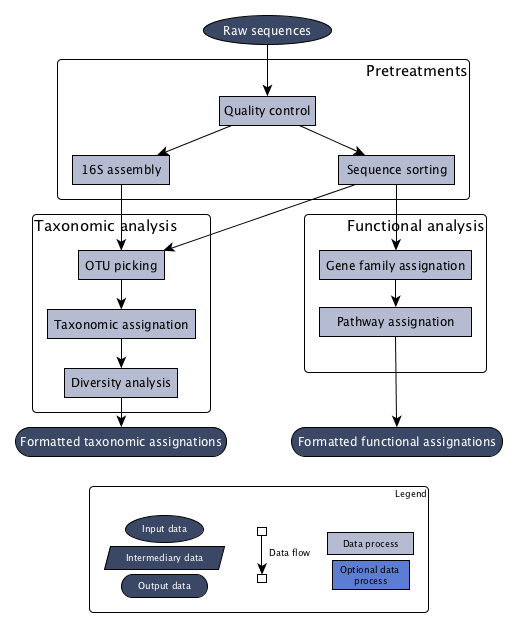
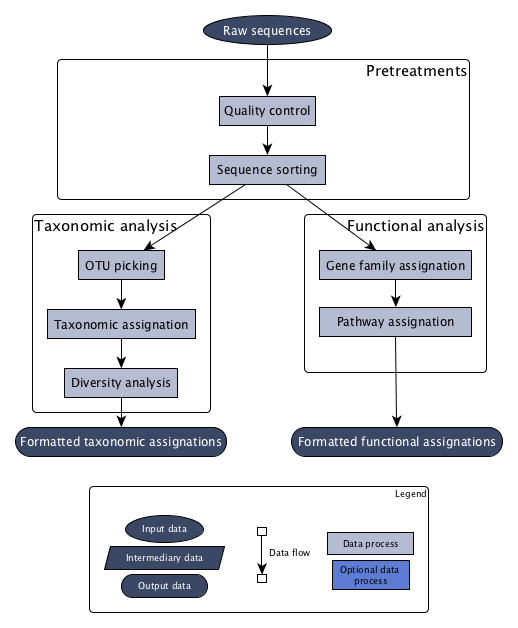
Continue workflow documentation

diff --git a/framework/workflows/microbiota_data_pretreatments.rst b/framework/workflows/microbiota_data_pretreatments.rst
@@ -29,19 +29,69 @@ input sequences
 
    Workflow to pre-process microbiota data from raw sequences in Galaxy (single sequences)
 
+The workflows output 3 sequence files:
+
+- non rRNA sequences
+- rRNA sequences
+
+.. _framework-workflows-microbiota-sequences-pretreatments-quality:
 Quality control and treatment
 #############################
 
+As described in :ref:`description of quality estimation <framework-tools-available-pretreatments-control-quality-estimation>`,
+several sequence parameters must be checked to ensure that the raw data looks
+good and reduce bias in data.
+
+In this workflow, quality control and treatments are made using PRINSEQ, as 
+described in :ref:`quality treatments <framework-tools-available-pretreatments-control-quality-treatment>`:
+
+- Elimination of sequences:
+    - with length inferior to 60 bp
+    - with a mean quality score inferior to 15
+    - with more than 2% of N bases
+- Trimming of sequences on right end when the mean quality score over a window of 5 bp is inferior to 20
+
+Quality treatment is applied on raw sequences (before paired-end assembly or any
+other step). Indeed paired-end quality treated sequences are needed for 
+:ref:`16S sequence reconstruction <framework-workflows-microbiota-sequences-pretreatments-reconstruction>`.
+
+For paired-end sequences, both sequence files are quality treated 
+together to limit issue on paired-end assembly.
+
+.. _framework-workflows-microbiota-sequences-pretreatments-assembly:
 Paired-end sequences assembly (for paired-end sequences only)
 #############################################################
 
-Split of paired-end sequences (for single sequences only)
-#########################################################
+For downstream tools such as SortMeRNA for :ref:`rRNA sorting <framework-workflows-microbiota-sequences-pretreatments-sorting>`,
+one sequence file is expected. Paired-end sequences have then to be 
+:ref:`assembled <framework-tools-available-pretreatments-assemble>`. 
 
-This step is needed for 16S reconstruction 
+In the workflow, we use FastQJoin with default parameters:
 
+- Minimum of 6 bp overlap is required to join pairs
+- Maximam 8% differences within region of overlap
+
+.. _framework-workflows-microbiota-sequences-pretreatments-sorting:
 rRNA (rDNA) sorting
 ###################
 
-16S reconstruction
-##################
+Metagenomic and metatranscriptomic data are constitued of different types of
+sequences: sequences corresponding to CDS, sequences corresponding to ribosomal
+sequences (rDNA or rRNA), ... 
+
+Useful functional information are present in sequences corresponding to CDS. 
+However, in most microbiota sequences, rRNA (or rDNA) sequences are much more 
+abundant than other sequences. This overabundance of rRNA can complexify extraction
+of functional information. 
+
+To :ref:`sort RNA sequences into rRNA and non rRNA <framework-tools-available-pretreatments-manipulate-rna>`, 
+we use SortMeRNA. This tool filter RNA sequences based on local sequence alignment
+(BLAST) against rRNA databases (SILVA and RFAM). 
+:ref:`Default parameters <framework-tools-available-pretreatments-manipulate-rna-sortmerna>` 
+are used, with all available databases.
+
+We could also use :ref:`16S reconstruction <framework-tools-available-pretreatments-manipulate-rna>` 
+to get long 16S sequences for better taxonomic assignation. However, Reago requires 
+a fixed sequence length. And this can be standard in our worlklow. 
+
+

diff --git a/framework/workflows/microbiota_data_functional_analysis.rst b/framework/workflows/microbiota_data_functional_analysis.rst
@@ -1,4 +1,4 @@
-.. _framework-workflows-available-analyses-gut-microbiota-sequences-functional-analysis:
+.. _framework-workflows-microbiota-sequences-functional-analysis:
 
 Functional analysis
-###################
+===================

diff --git a/framework/workflows/microbiota_data_taxonomic_analysis.rst b/framework/workflows/microbiota_data_taxonomic_analysis.rst
@@ -1,4 +1,4 @@
-.. _framework-workflows-available-analyses-gut-microbiota-sequences-taxonomic-analysis:
+.. _framework-workflows-microbiota-sequences-taxonomic-analysis:
 
 Taxonomic analysis
-##################
+==================
